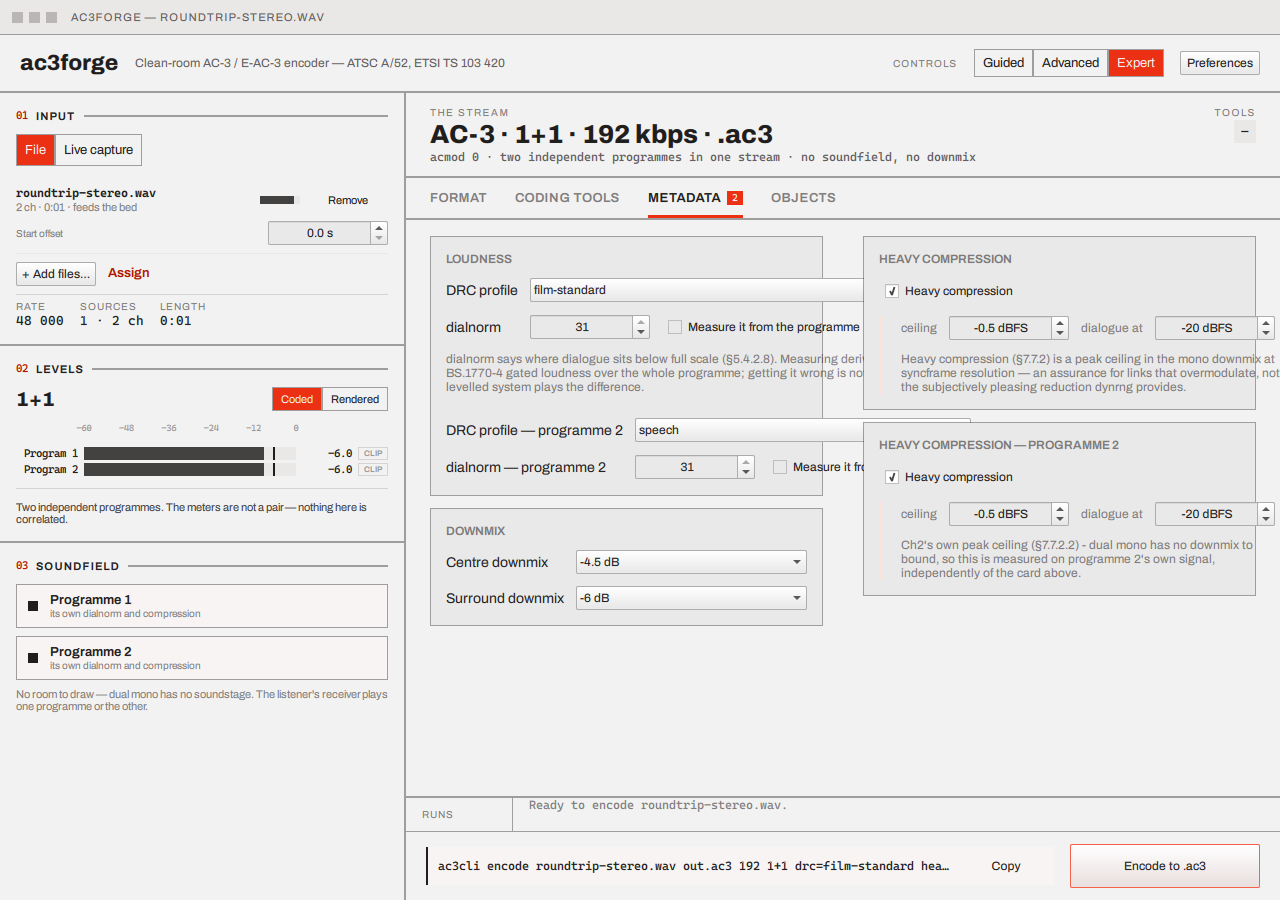
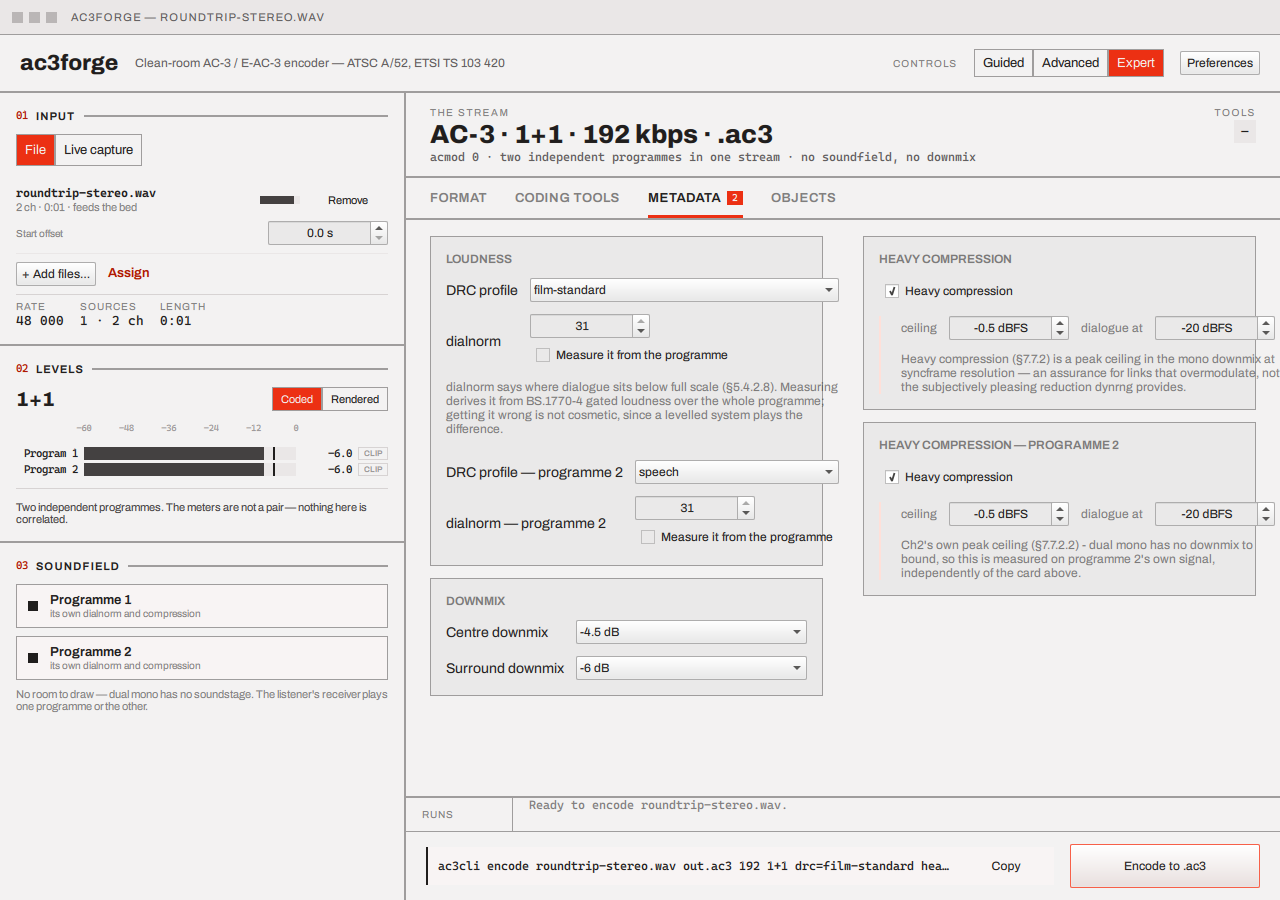
fix: stop the dialnorm row overflowing the Loudness card
Measure it from the programme shared a RowLayout with the dialnorm
SpinBox, and its unwrapped label ran past the card's right edge -
visible in metadata-tab.png as a clipped "Measure it fr...". Both
programme rows now stack the checkbox under the spinbox instead of
squeezing them onto one line.

Audited every other SpinBox/CheckBox combination in the QML tree
(Annex E coding tools, Heavy compression, Mixing metadata, VbrPanel)
- none of the others share a row with a long checkbox label inside a
narrow card, so this was the only spot with the bug.

Changed region(s): [[0.3438, 0.3422, 0.6875, 0.7467]]

diff --git a/src/gui/qml/LoudnessGroup.qml b/src/gui/qml/LoudnessGroup.qml
@@ -41,9 +41,12 @@ ColumnLayout {
             color: Theme.text
             font.pixelSize: Theme.fontNormal
         }
-        RowLayout {
+        // A ColumnLayout, not a RowLayout: the checkbox's own label is too
+        // long to share a row with the spinbox inside the card's narrow
+        // column without overflowing it (§dialnorm overflow fix).
+        ColumnLayout {
             Layout.fillWidth: true
-            spacing: Theme.gap
+            spacing: 4
 
             SpinBox {
                 from: 1
@@ -115,9 +118,9 @@ ColumnLayout {
             color: Theme.text
             font.pixelSize: Theme.fontNormal
         }
-        RowLayout {
+        ColumnLayout {
             Layout.fillWidth: true
-            spacing: Theme.gap
+            spacing: 4
 
             SpinBox {
                 from: 1
